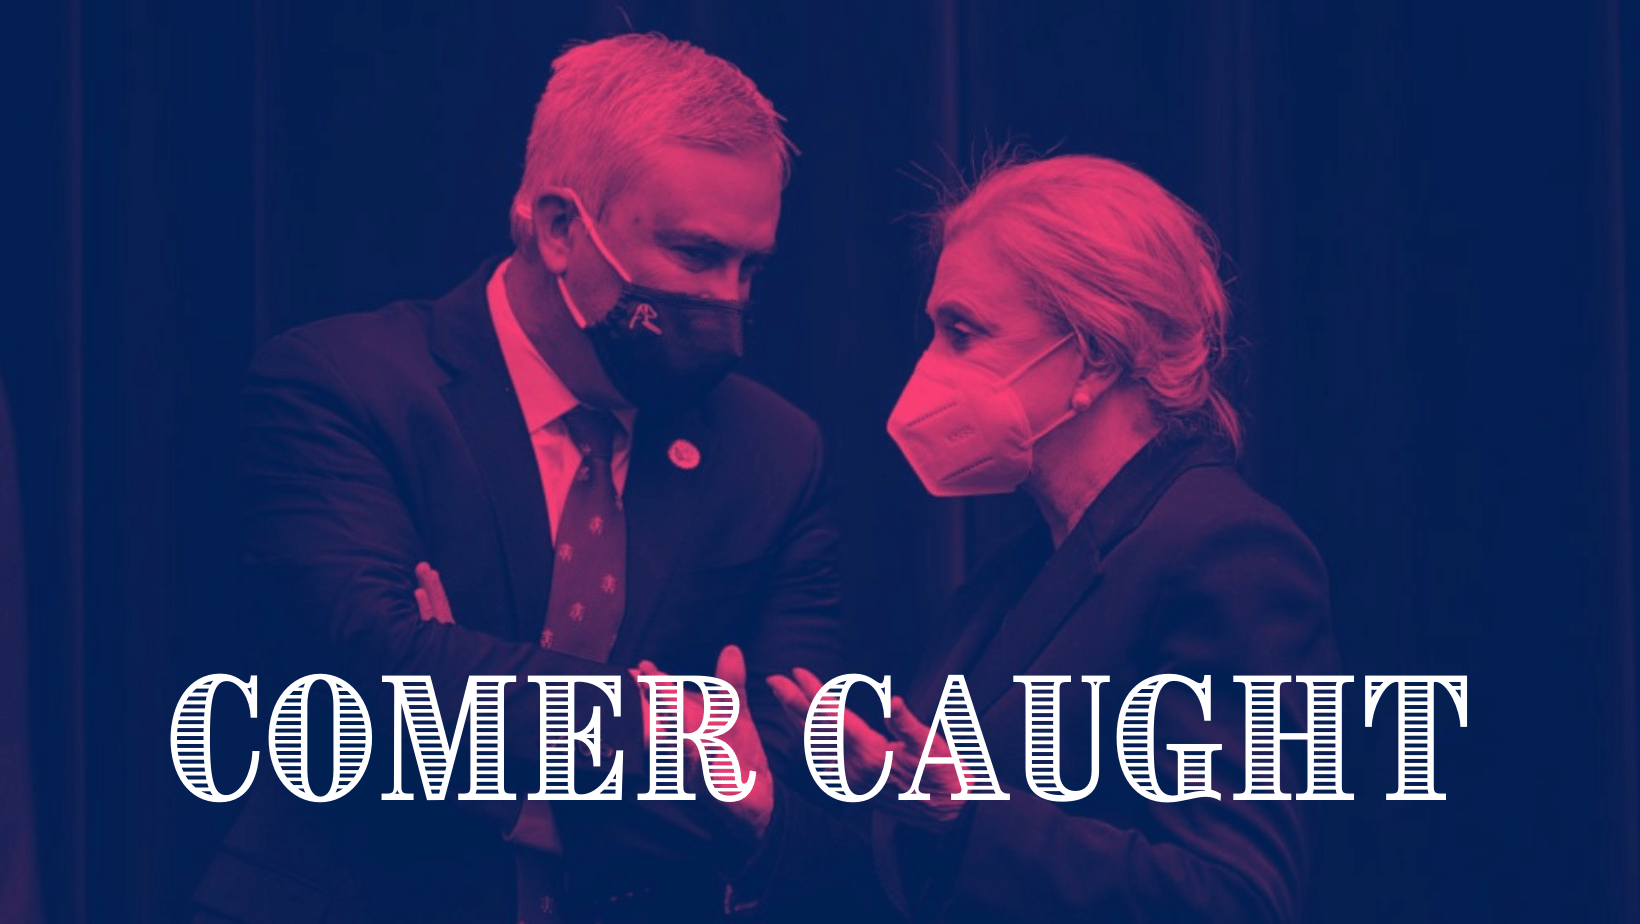
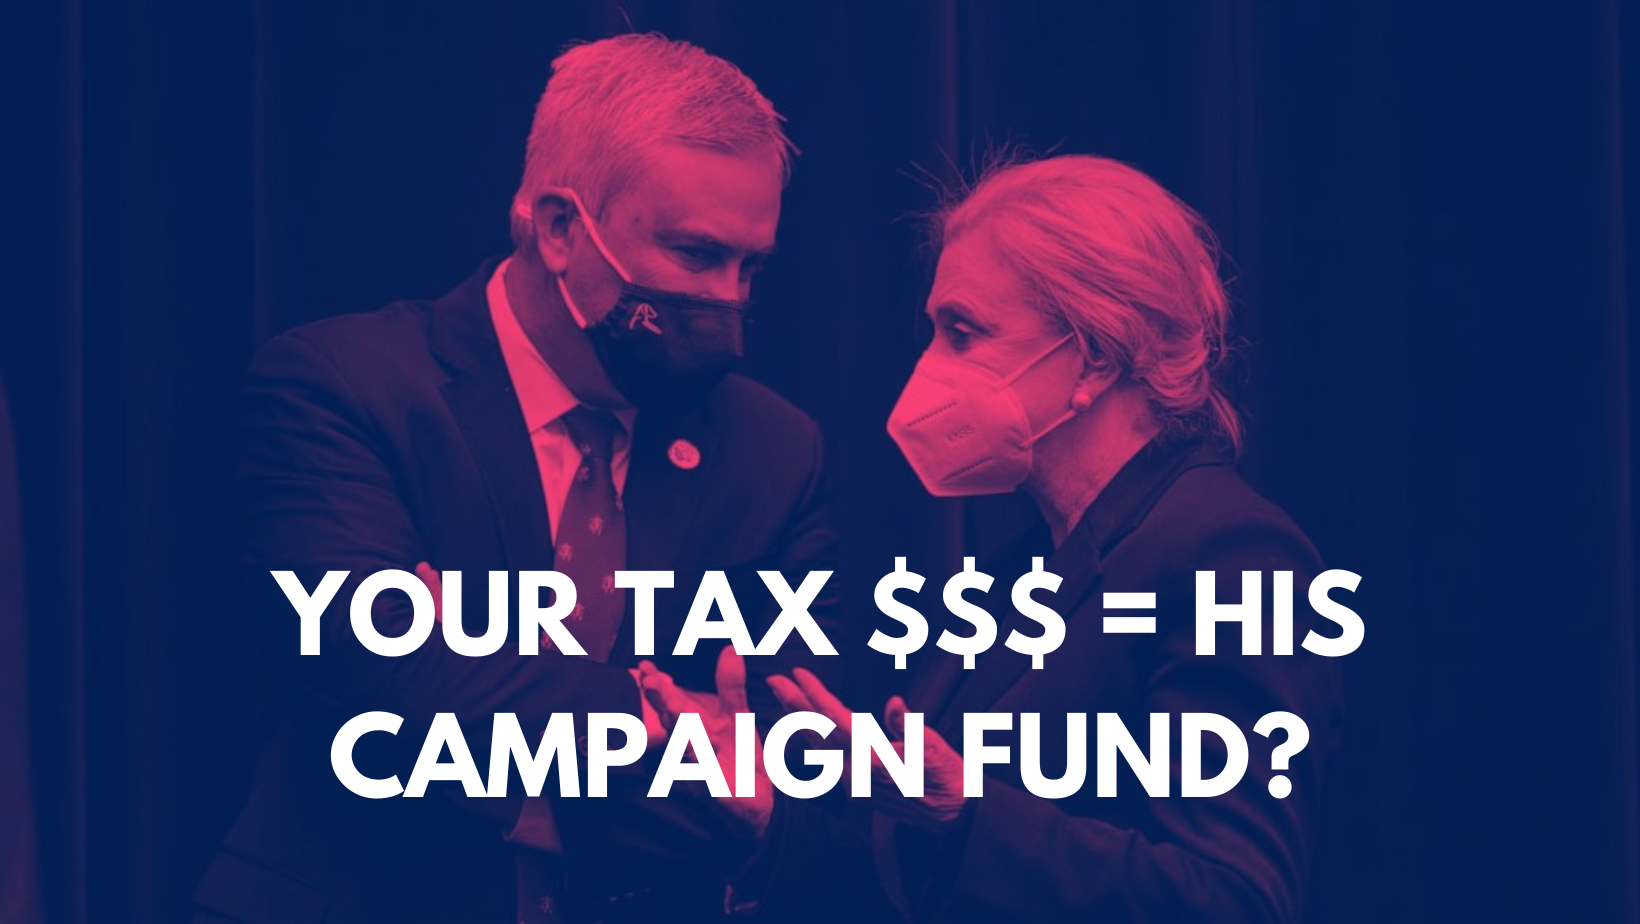
post

Changed region(s): [[0.0933, 0.6061, 0.9018, 0.8788]]

diff --git a/content/pages/posts/opponent-spends-tax-dollars-on-mailers.md b/content/pages/posts/opponent-spends-tax-dollars-on-mailers.md
@@ -1,7 +1,7 @@
 ---
-title: Caught! Opponent Spends Thousands in Tax Dollars on Mailers
+title: Caught! Wasting Thousands in KY Tax Dollars on Campaign Mailers
 subtitle: >-
-  Nervous about the 2022 Primary, Sharp's Opponent Using Kentucky Tax Dollars to Fund Campaign.
+  Nervous about his most recent re-election Primary, Jamie Comer Jr. starts liberal spending on expensive campaign mailers.
 date: 2021-12-10
 categories:
   - content/data/categories/campaign.yaml
@@ -13,14 +13,14 @@ image_position: right
 episode_embed_html: >-
 
 seo:
-  title: Caught! Opponent Spends Thousands in Tax Dollars on Mailers
+  title: Caught! Opponent Wastes Thousands in Tax Dollars on Mailers
   description: Nervous about the 2022 Primary, Sharp's Opponent Using Voter Tax Dollars to Fund Campaign
   extra:
     - name: og:type
       value: article
       keyName: property
     - name: og:title
-      value: Caught! Opponent Spends Thousands in Tax Dollars on Mailers
+      value: Caught! Opponent Wastes Thousands in Tax Dollars on Mailers
       keyName: property
     - name: og:description
       value: Nervous about the 2022 Primary, Sharp's Opponent Using Voter Tax Dollars to Fund Campaign
@@ -37,7 +37,7 @@ seo:
     - name: twitter:card
       value: summary_large_image
     - name: twitter:title
-      value: Caught! Opponent Spends Thousands in Tax Dollars on Mailers
+      value: Caught! Opponent Wastes Thousands in Tax Dollars on Mailers
     - name: twitter:description
       value: Nervous about the 2022 Primary, Sharp's Opponent Using Voter Tax Dollars to Fund Campaign
     - name: twitter:image
@@ -49,14 +49,19 @@ layout: post
 
 ![Comer Mailer Preview](/images/blog/comer-card.png)
 
+> With our nation's debt and current crisis at the border, Comer's liberal, wasteful spending on his re-election campaign proves he is not the Kentucky Conservative he tells us he is. - David Sharp
+
 If you are a current Congressman, you can use our taxpayer dollars to send out mailers to people in their district.
 
 The establishment, professional politicians voted this in so they can keep their jobs.
 
-Whether you support him or not, an AVERAGE mailer cost $1.37 per mailer.
+![Comer Pride](/images/jamie-jr-3.png)
 
-# Remember, that's $68,500 of your tax dollars each time he sends one out this race.
+### Whether you support him or not, an ***AVERAGE campaign mailer cost $1.37 per mailer.***
 
+# That's about $70,000 of your tax dollars each time he sends one out.
+
+> We have an extremely bad habit of overspending in Washington - our campaign seeks to reign in liberal spending and balance our budget.
 
 [Fight Back Against Establishment Politicians - Click Here](/support)
 
